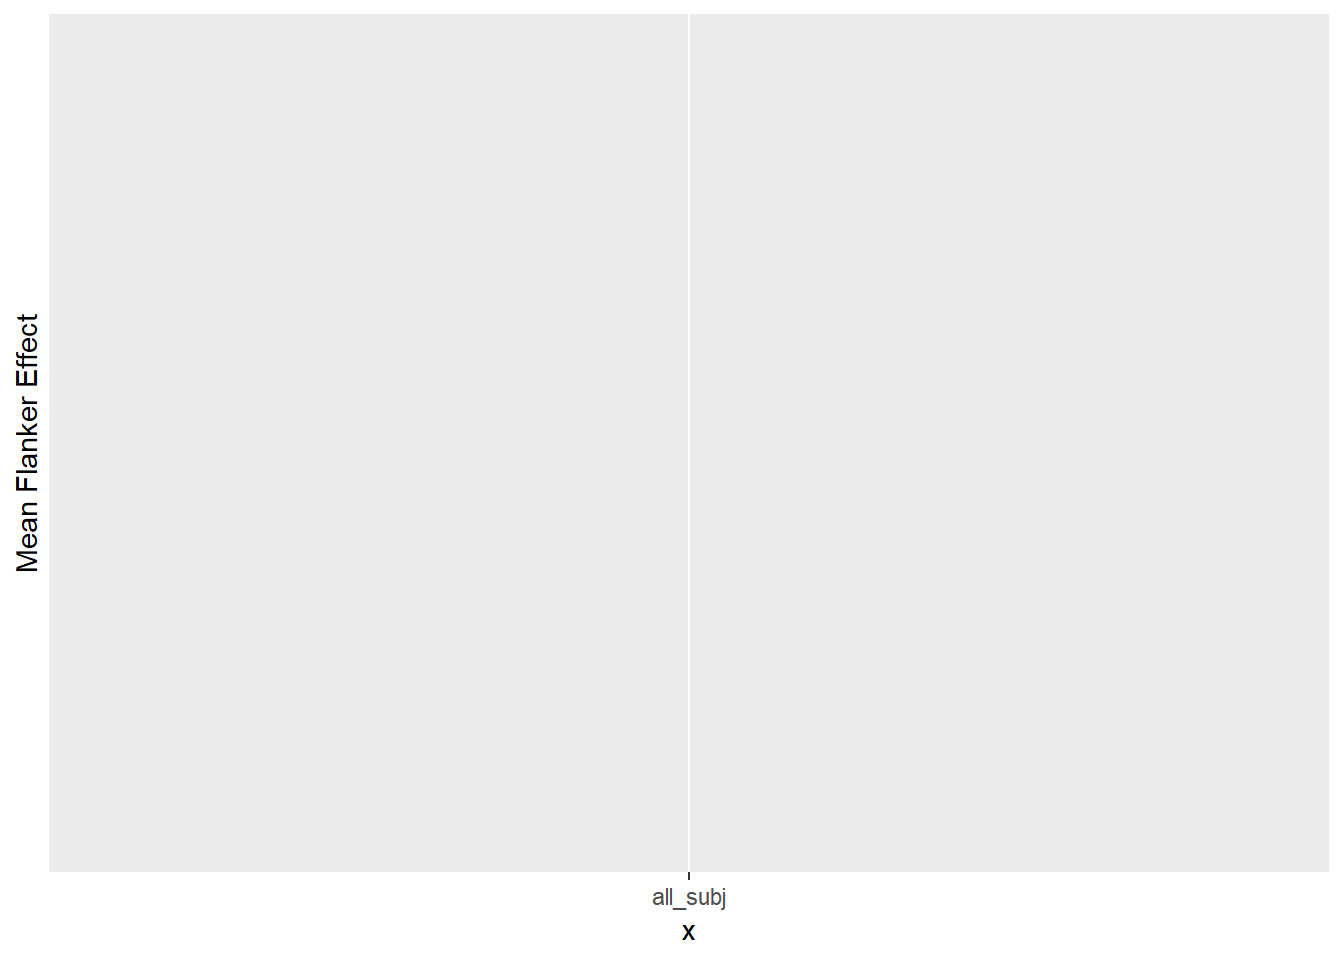
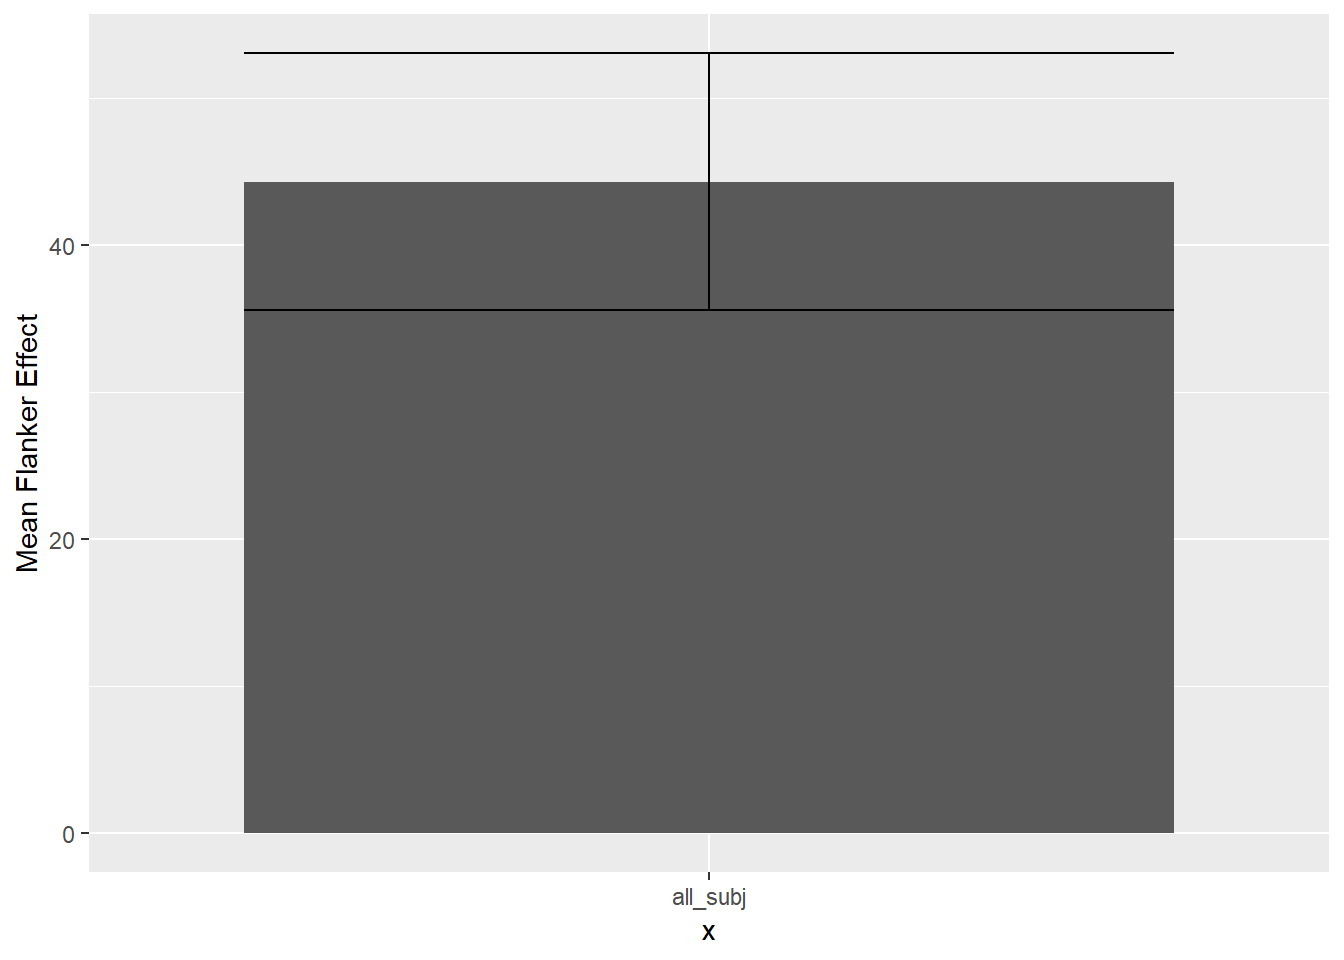
mean flanker effect for all the subj

diff --git a/docs/DataWrangleFlanker_student.html b/docs/DataWrangleFlanker_student.html
@@ -1020,9 +1020,9 @@ Rtime_cong &lt;- subject_meanRTs %&gt;%
                        group_by(subject)
     
     
-    SEMRtime_allsubj = sd(Rtime_incong$corr_RT - Rtime_cong$corr_RT)/sqrt(length(Rtime_cong$corr_RT))
+    SEMRtime_allsubj = sd(Rtime_incong$meanRt - Rtime_cong$meanRt)/sqrt(length(Rtime_cong$meanRt))
     
-    avgRtime = mean(abs(Rtime_incong$corr_RT - Rtime_cong$corr_RT))
+    avgRtime = mean(abs(Rtime_incong$meanRt - Rtime_cong$meanRt))
     
     flankerdata &lt;- data.table(avgRtime, SEMRtime_allsubj)
     
